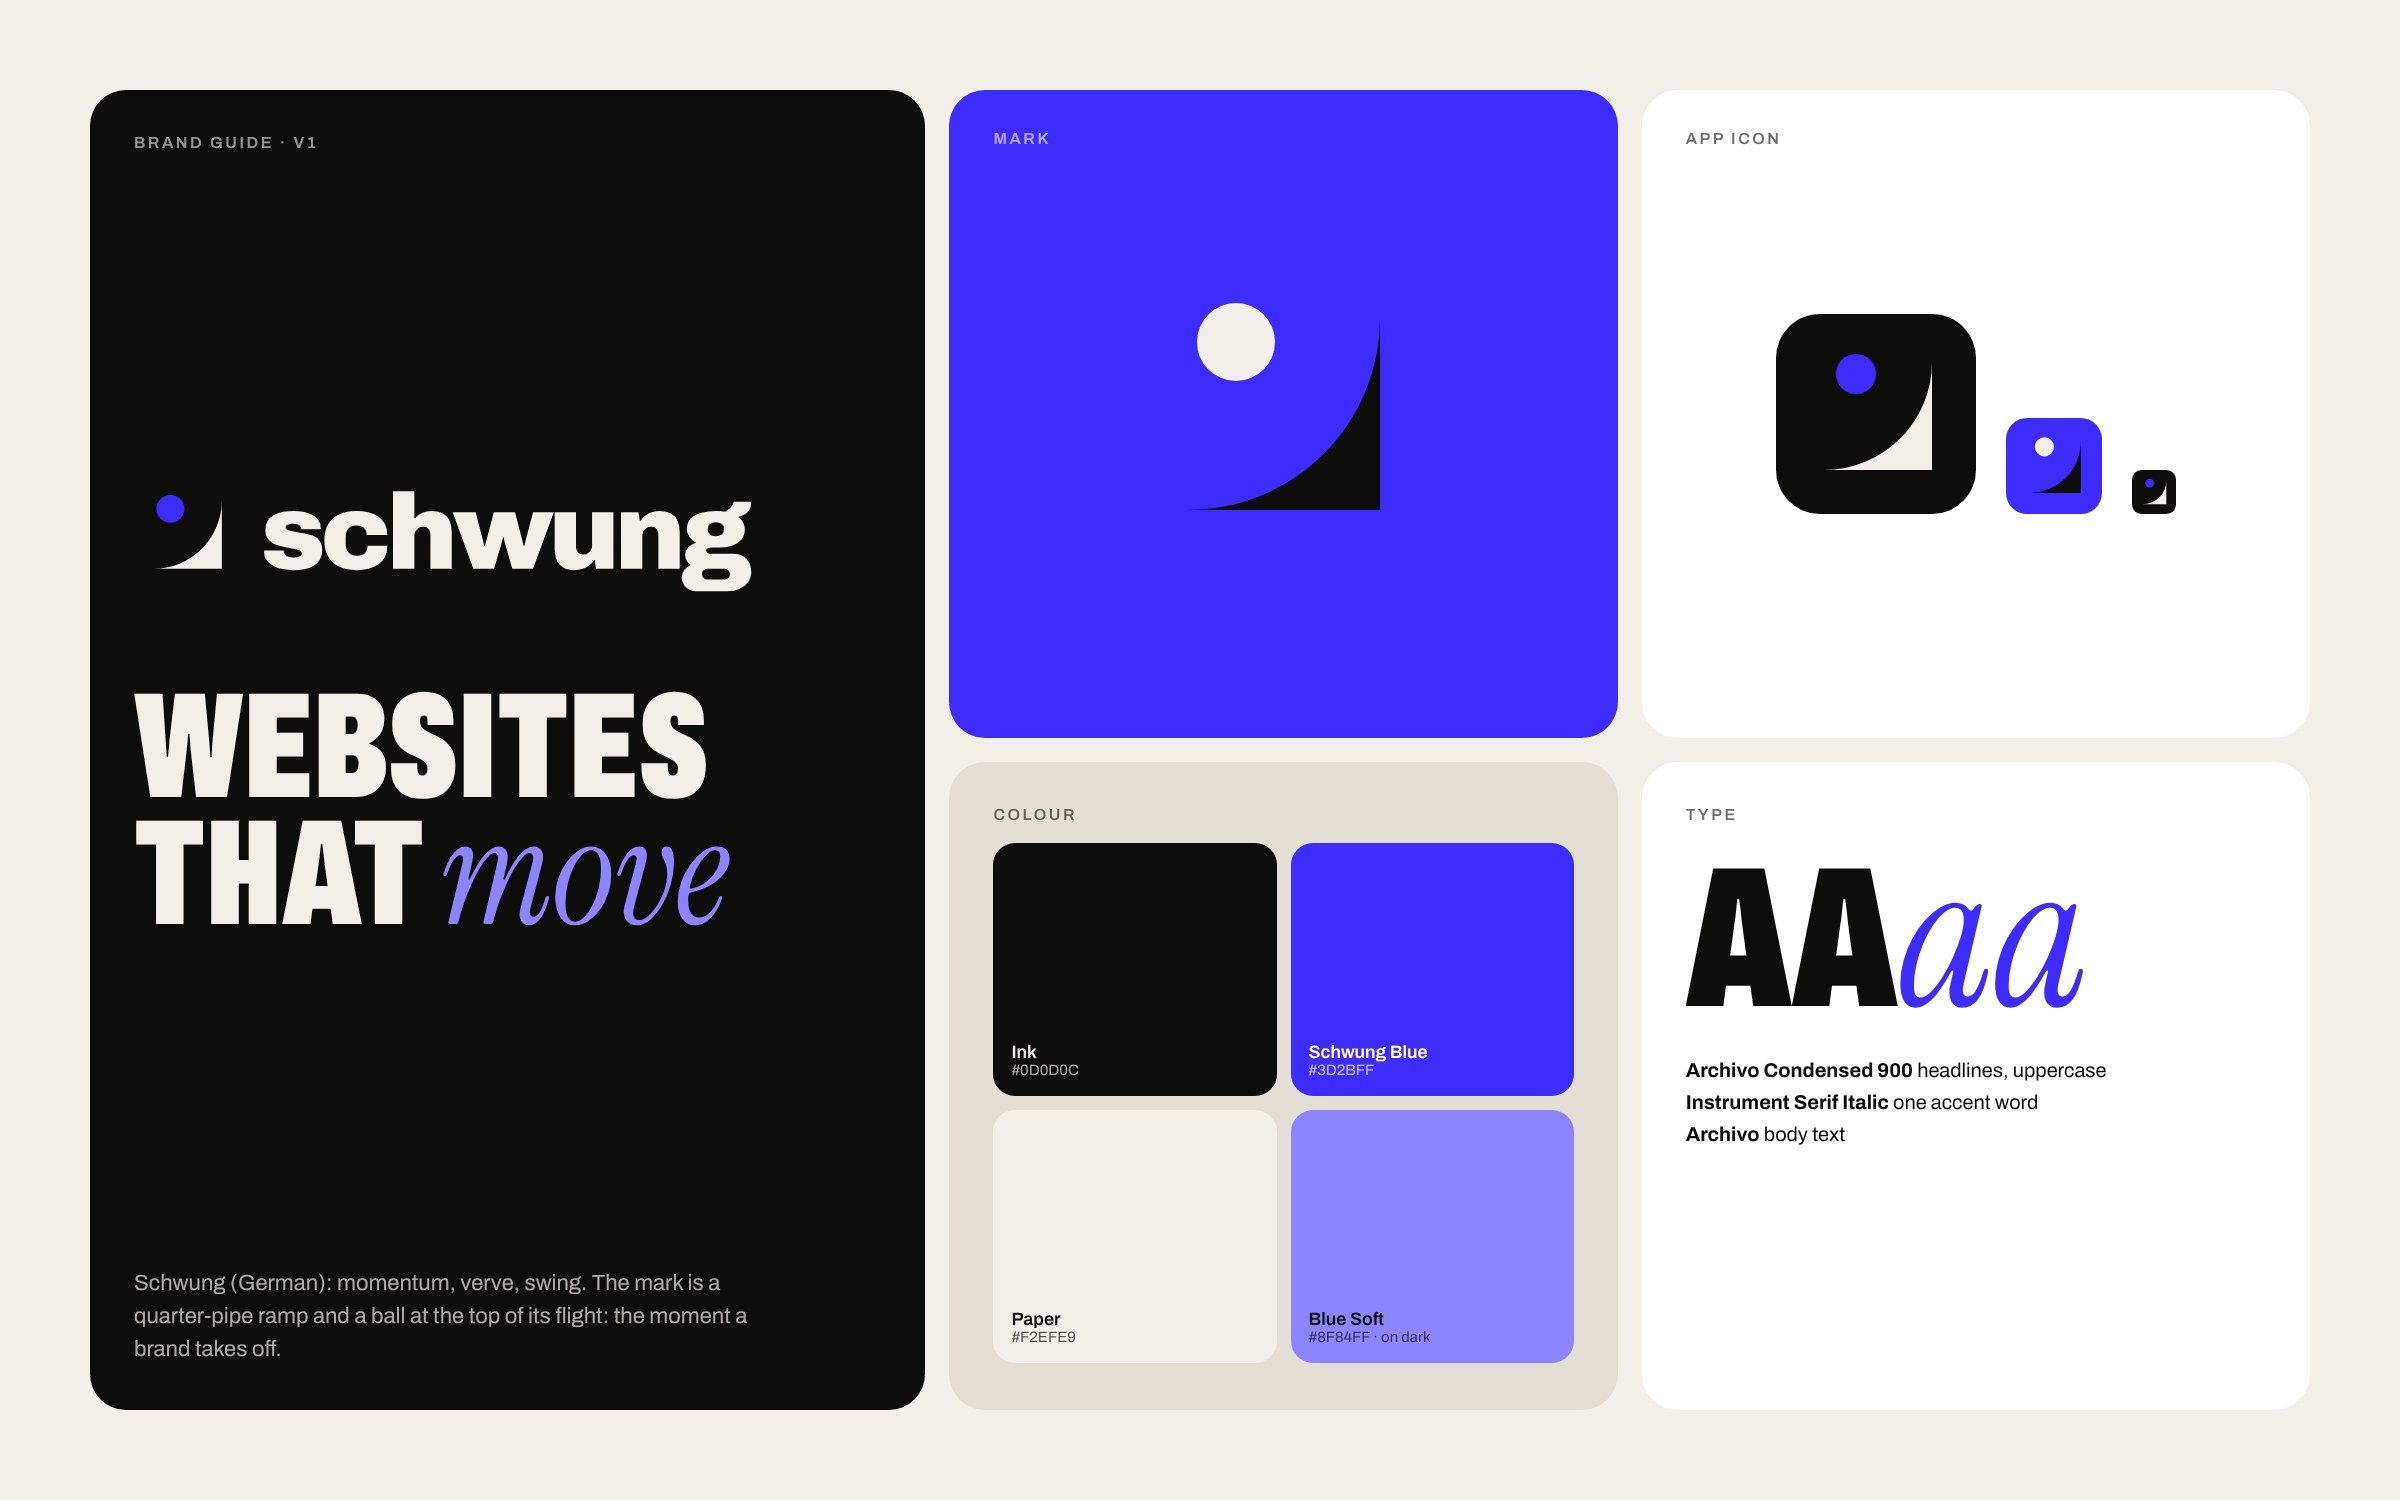
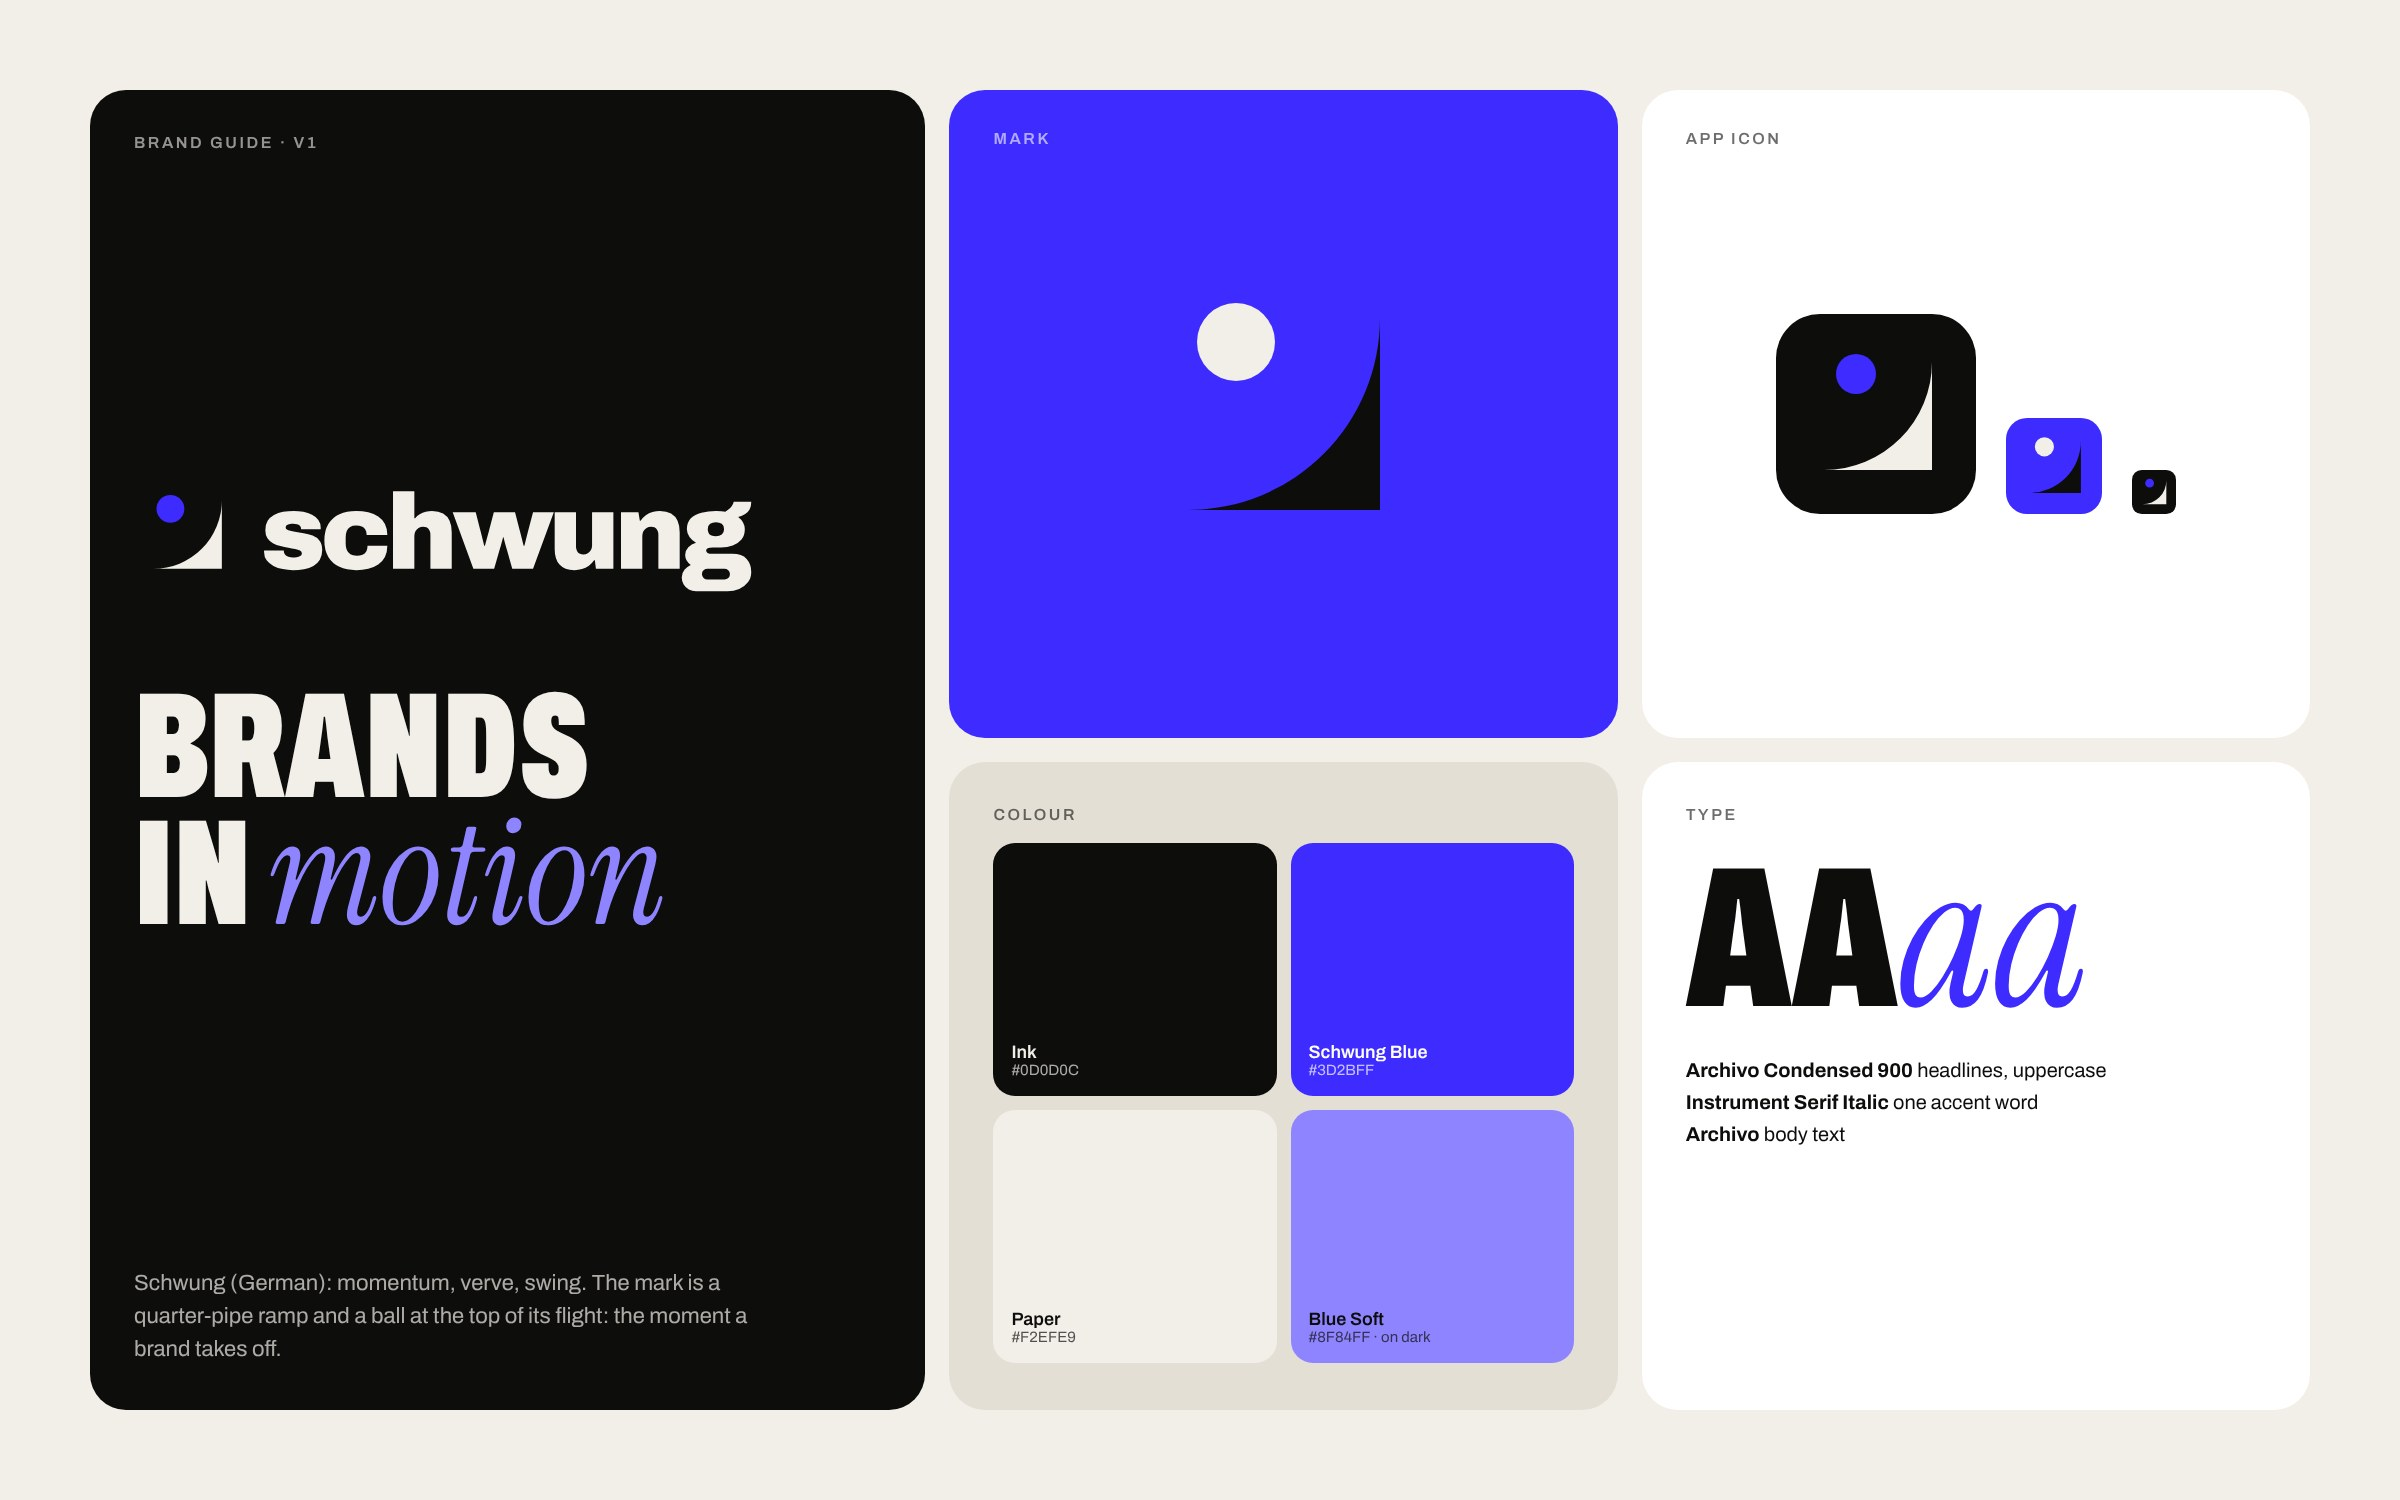
schwung: switch slogan to 'Brands in motion' across site, social kit and brand guide
Claude-Session: https://claude.ai/code/session_01XBeumYXPmiveuZtxEjDWPY

Changed region(s): [[0.0312, 0.46, 0.3125, 0.6133]]

diff --git a/schwung/index.html b/schwung/index.html
@@ -3,7 +3,7 @@
 <head>
 <meta charset="utf-8">
 <meta name="viewport" content="width=device-width, initial-scale=1">
-<title>schwung · Websites that move</title>
+<title>schwung · Brands in motion</title>
 <meta name="description" content="schwung is a design studio in Zürich. Premium websites, brand looks and launch kits, from idea to live in about ten days.">
 <meta name="theme-color" content="#0d0d0c">
 <link rel="icon" href="brand/logo/favicon.svg" type="image/svg+xml">
@@ -270,7 +270,7 @@ footer{padding:80px 0 40px;overflow:hidden}
   <div class="hero-ball" id="ball" aria-hidden="true"></div>
   <div class="wrap" style="position:relative;z-index:1;width:100%">
     <span class="eyebrow">Design studio · Zürich</span>
-    <h1 class="display words" style="margin-top:22px"><span class="row">Websites</span><span class="row">that <em>move</em></span></h1>
+    <h1 class="display words" style="margin-top:22px"><span class="row">Brands</span><span class="row">in <em>motion</em></span></h1>
     <div class="hero-foot">
       <div>
         <p class="lede rv">schwung builds premium websites, brand looks and launch kits for ambitious small brands. We use AI to move fast and taste to get it right, so you go from idea to live in about ten days.</p>

diff --git a/schwung/BRAND.md b/schwung/BRAND.md
@@ -1,7 +1,7 @@
 # schwung: Brand-Paket
 
 **Name:** schwung (immer klein geschrieben)
-**Claim:** Websites that move.
+**Claim:** Brands in motion.
 **Was wir sind:** Design-Studio aus Zürich für Websites, Markenauftritte und Launch-Pakete. Mit KI schnell, mit Geschmack gut.
 
 ## Warum "schwung"
@@ -48,7 +48,7 @@ Regeln: Logo nie verzerren, nicht umfärben (ausser Schwarz/Weiss), immer Abstan
 ## Schrift (gratis, Google Fonts)
 
 - **Archivo**, Condensed (font-stretch 62 %), Stärke 900, GROSSBUCHSTABEN → Headlines
-- **Instrument Serif Italic** → genau ein Akzentwort pro Headline ("Websites that *move*")
+- **Instrument Serif Italic** → genau ein Akzentwort pro Headline ("Brands in *motion*")
 - **Archivo** normal → Fliesstext
 
 ## Social-Media-Paket (`brand/social/`)
@@ -70,18 +70,18 @@ Regeln: Logo nie verzerren, nicht umfärben (ausser Schwarz/Weiss), immer Abstan
 ## Texte für die Profile (zum Kopieren)
 
 **LinkedIn: Headline**
-> Founder @ schwung · Websites that move · Design studio, Zürich
+> Founder @ schwung · Brands in motion · Design studio, Zürich
 
 **LinkedIn: Info / Unternehmensseite**
 > schwung is a design studio in Zürich. We build premium websites, brand looks and launch kits for ambitious small brands. AI helps us move fast; people with taste make it right. From idea to live in about ten days.
 
 **Instagram / TikTok: Bio** (max. 150 Zeichen)
-> Websites that move ⚪
+> Brands in motion ⚪
 > Design studio · Zürich
 > Brand + website in 10 days ↓
 
 **Behance: Über mich**
-> schwung: a Zürich design studio for websites that move. Web design, brand looks, motion and AI product imagery.
+> schwung: a Zürich design studio that puts brands in motion. Web design, brand looks, motion and AI product imagery.
 
 **Name überall gleich:** `schwung` · Handle `@schwung.studio`
 
@@ -90,7 +90,7 @@ Regeln: Logo nie verzerren, nicht umfärben (ausser Schwarz/Weiss), immer Abstan
 ```html
 <table cellpadding="0" cellspacing="0" style="font-family:Arial,sans-serif;font-size:13px;color:#0d0d0c">
   <tr><td style="padding-bottom:6px"><strong>Your Name</strong> · Founder</td></tr>
-  <tr><td style="padding-bottom:10px;color:#6f6a62">schwung · Websites that move · Zürich</td></tr>
+  <tr><td style="padding-bottom:10px;color:#6f6a62">schwung · Brands in motion · Zürich</td></tr>
   <tr><td><a href="https://yourdomain.ch" style="color:#3d2bff;text-decoration:none">yourdomain.ch</a></td></tr>
 </table>
 ```

diff --git a/CLAUDE.md b/CLAUDE.md
@@ -16,7 +16,7 @@ This repo holds website projects built for the owner. Read this before starting 
 - `solum/`: **SOLUM**, a fictional premium sneaker brand ("designed in Zürich"). Single-page storefront and the owner's **portfolio / demo ad**. The quality reference for all new work. See `solum/README.md`.
   - `solum/promo/`: LinkedIn kit (4:5 video, carousel PDF, post texts in `LINKEDIN.md`, reach plan in `REICHWEITE.md`).
   - `solum/img/neu/PROMPTS.md`: image prompts the owner runs in Perchance.
-- `schwung/`: **schwung**, the owner's own design studio ("Websites that move", Zürich): brand kit in `schwung/brand/` (logo SVGs, social media assets, brand board), brand rules and profile texts in `schwung/BRAND.md`, studio one-pager `schwung/index.html` with SOLUM as the case study. Use its logo, colours (Ink #0D0D0C, Paper #F2EFE9, Schwung Blue #3D2BFF) and tone for anything about the studio.
+- `schwung/`: **schwung**, the owner's own design studio ("Brands in motion", Zürich): brand kit in `schwung/brand/` (logo SVGs, social media assets, brand board), brand rules and profile texts in `schwung/BRAND.md`, studio one-pager `schwung/index.html` with SOLUM as the case study. Use its logo, colours (Ink #0D0D0C, Paper #F2EFE9, Schwung Blue #3D2BFF) and tone for anything about the studio.
 - `aml-revisions/`: landing page for the owner's father's real company (AML Revisions AG, audit firm for asset managers). **Do not change it unless the owner explicitly asks for that page.** Never apply SOLUM work (animations, styles, promo) to it. Audience: older clients, so calm, text-first, large type, no flashy motion.
 - `waymark/`: earlier concept page.
 - `design-md/`: design reference library used by the `design-references` skill.
